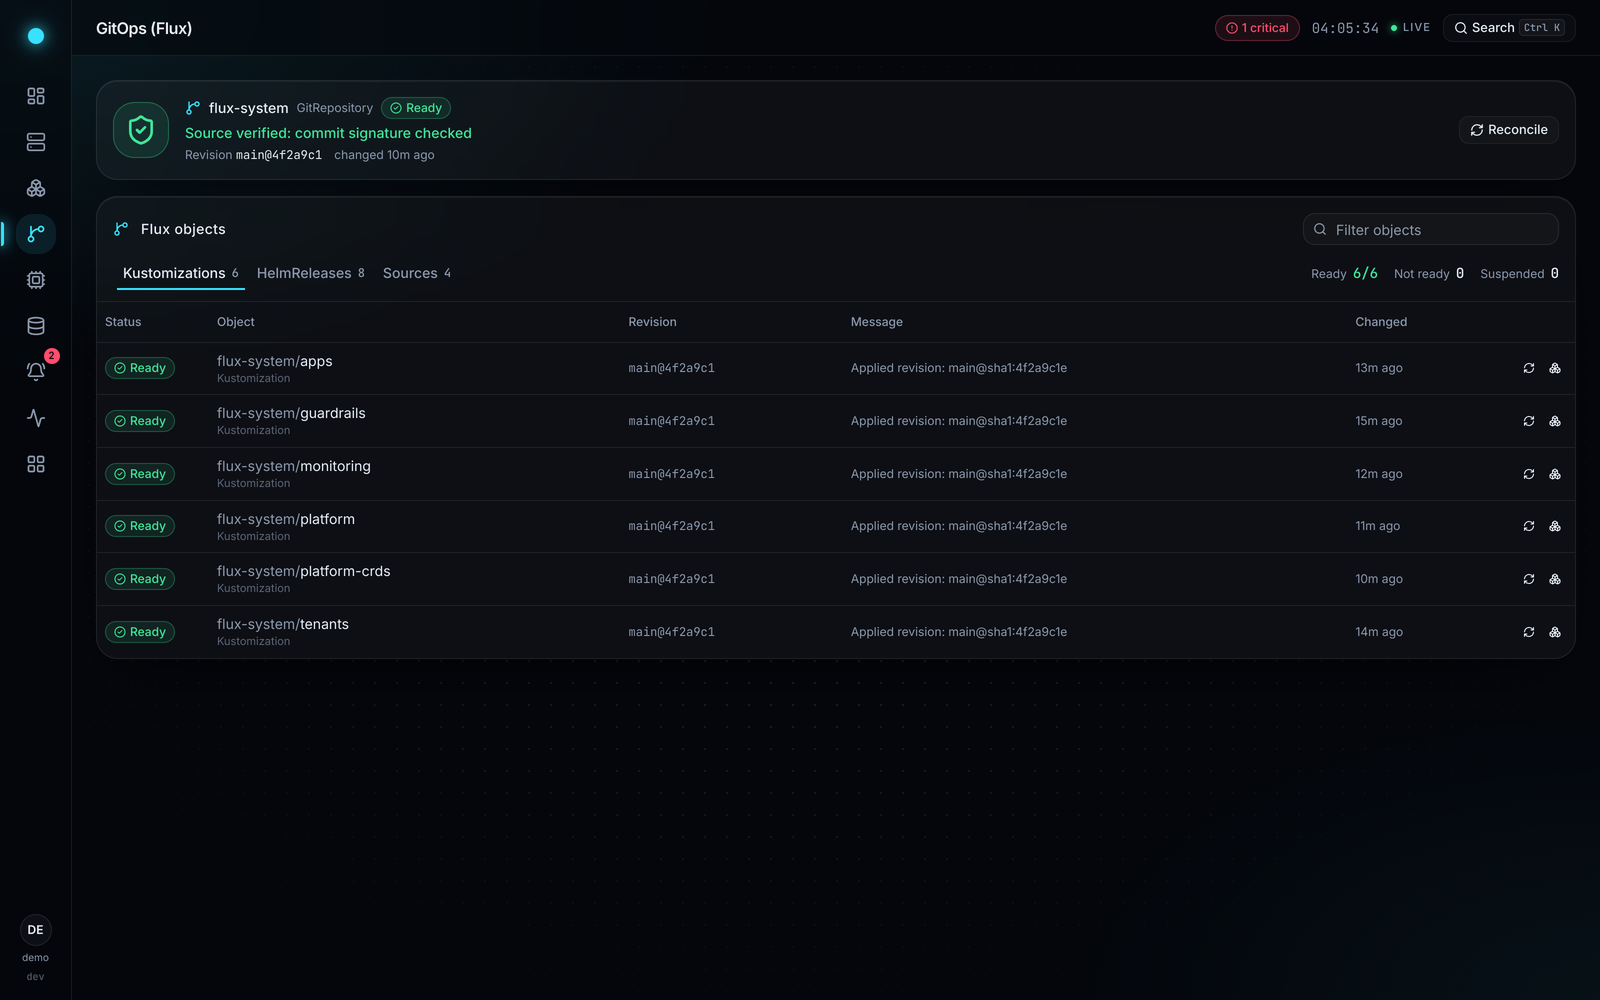
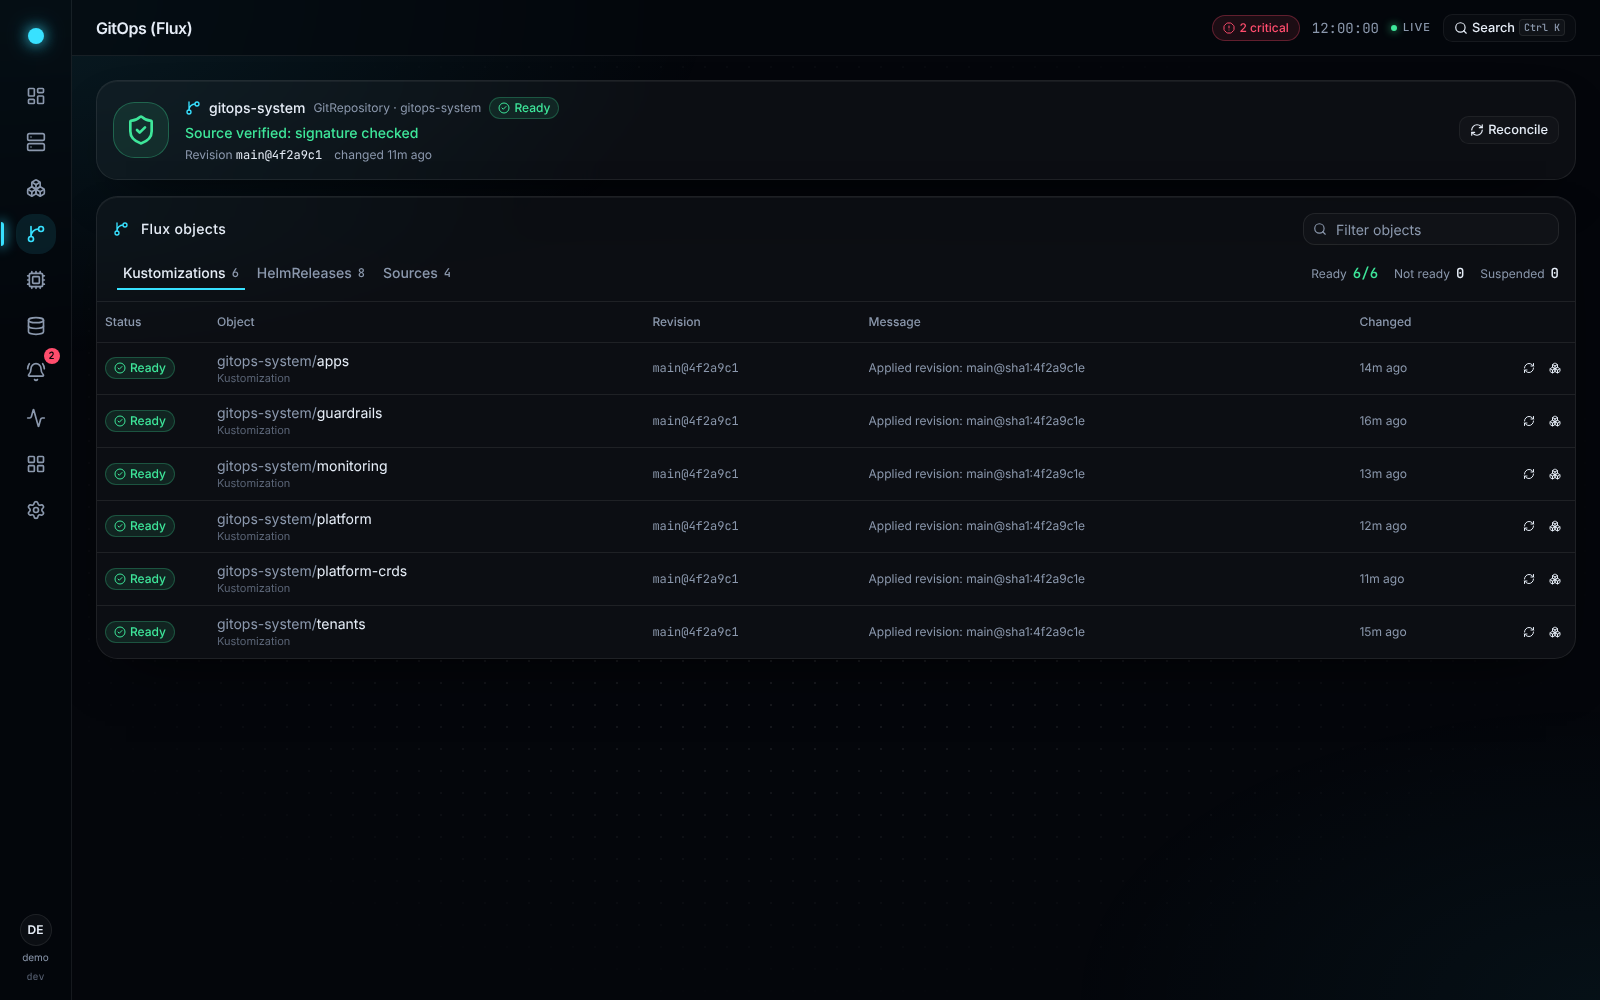
docs: regenerate the screenshots from demo mode
make screenshots at SCREENSHOT_CLOCK replaces the hand-made images:
the ten README pages at 1600x1000 and the 2560x1280 banner, with no
PNG text or time chunks. Every name and address in them comes from
the demo world, so the README says so again.

The demo launcher's out-of-band link is "BMC" on bmc.example.com
instead of a vendor product name, which showed on the Apps page.

diff --git a/internal/demo/world/launcher.go b/internal/demo/world/launcher.go
@@ -16,7 +16,7 @@ const HostModel = "Example 2U server"
 func Launcher() model.LauncherData {
 	return model.LauncherData{Links: []model.LauncherLink{
 		{Name: "Proxmox", Href: "https://pve.example.com:8006", Icon: "proxmox", Description: "Hypervisor"},
-		{Name: "iDRAC", Href: "https://idrac.example.com", Icon: "idrac", Description: "Out-of-band"},
+		{Name: "BMC", Href: "https://bmc.example.com", Icon: "idrac", Description: "Out-of-band"},
 		{Name: "UniFi", Href: "https://unifi.example.com", Icon: "unifi", Description: "Network"},
 		{Name: "NAS", Href: "https://nas.example.com", Icon: "unifi-drive", Description: "Backups"},
 		{Name: "GitOps repo", Href: "https://git.example.com/homelab", Icon: "github", Description: "Flux source"},

diff --git a/README.md b/README.md
@@ -58,6 +58,10 @@ cluster, for example behind an oauth2-proxy sidecar that admits only the users y
 
 ## Screenshots
 
+All screenshots run on the built-in [demo data](#try-it-with-demo-data) at a fixed clock
+(`make screenshots`, see [Screenshots](#screenshots-1) under Develop); every name and address in
+them is made up.
+
 | | |
 |:---:|:---:|
 | ![Virtual machines](docs/images/vms.png) **Virtual machines** | ![Hardware](docs/images/hardware.png) **Hardware** |
